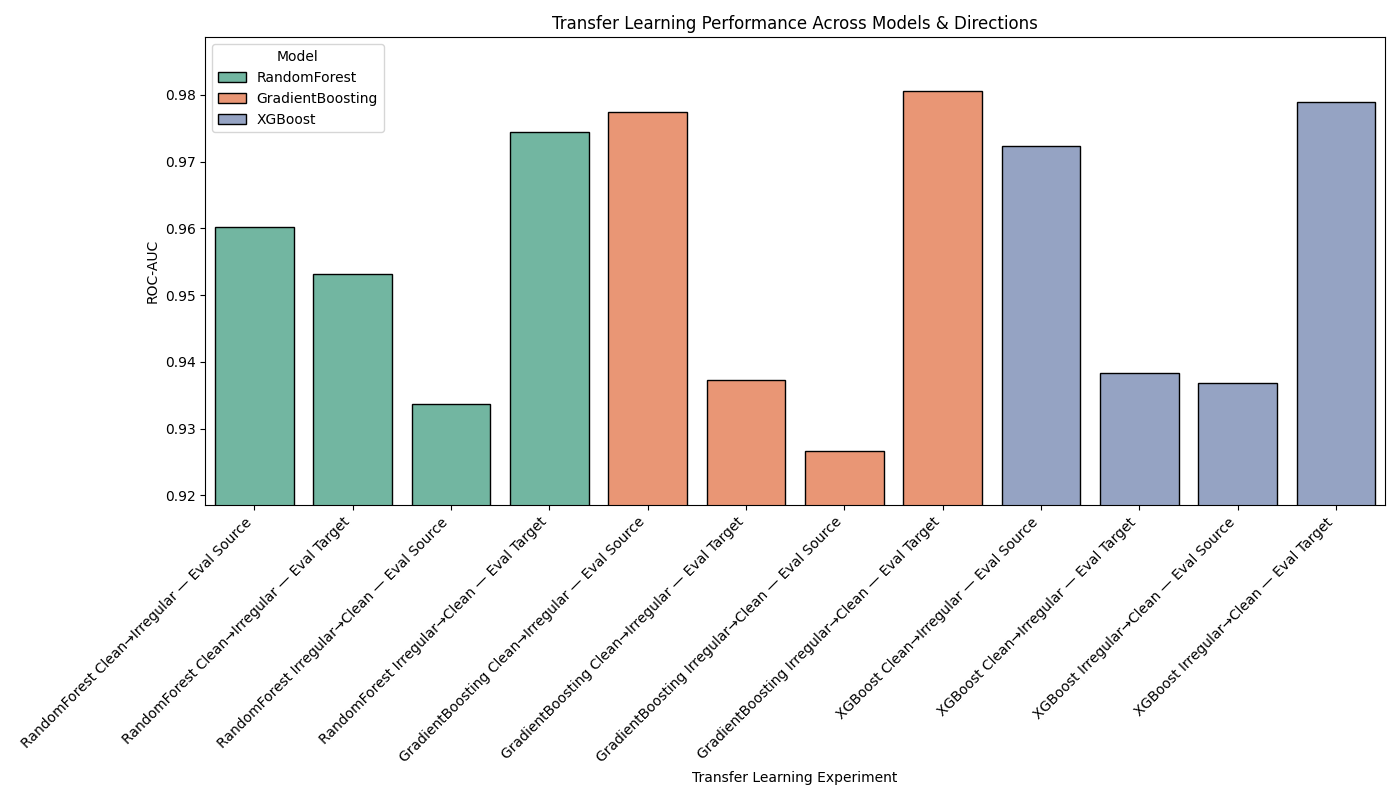
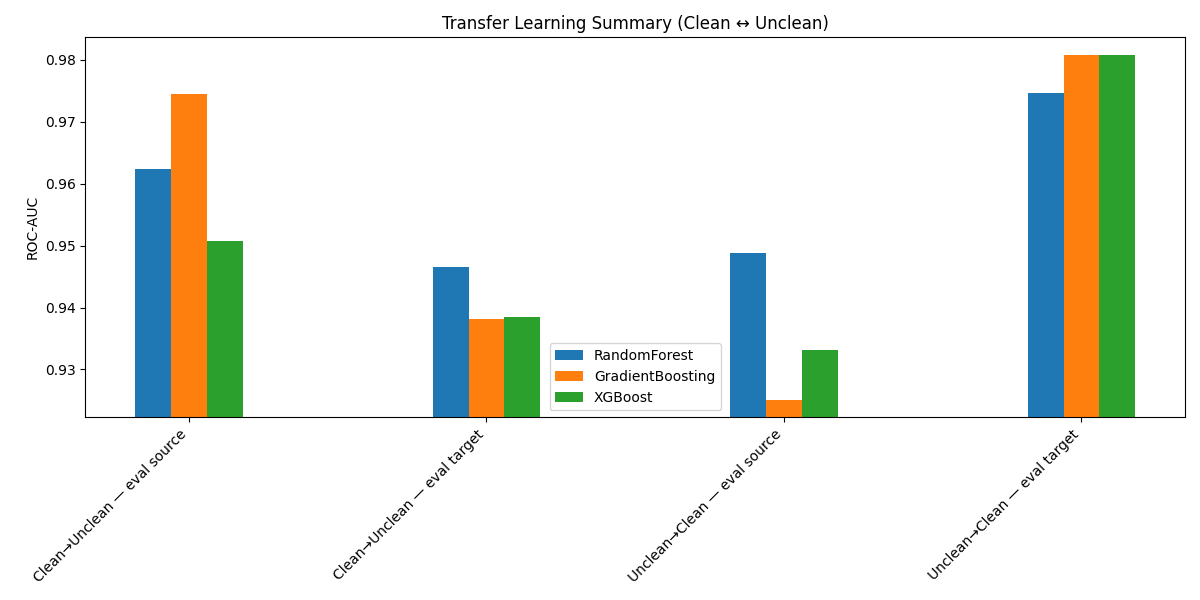
fix(transfer-learning): fixed data leakage
Should fix the data leakage by properly pairing product id's like comparison.py.

diff --git a/src/transfer_learning.py b/src/transfer_learning.py
@@ -1,187 +1,175 @@
 # ==============================================================
 #  transfer_learning.py
-#  Sequential Transfer Learning for Synthetic ↔ Realistic AI4I Data
-#
-#  Uses your existing data loaders + models and performs:
-#     Experiment A: Train Clean → Finetune Irregular
-#     Experiment B: Train Irregular → Finetune Clean
-#
-#  Evaluates on both domains to measure transfer improvements.
+#  Paired Transfer Learning for Clean <-> Unclean AI4I Data
 # ==============================================================
 
 from sklearn.metrics import roc_auc_score
 from sklearn.model_selection import train_test_split
 import pandas as pd
-
-from src.comparison import align_columns
-
 import matplotlib.pyplot as plt
-import seaborn as sns
 
-def plot_transfer_learning_results(df, save_path="results/transfer_learning_plot.png"):
-    """
-    Create a grouped bar chart where:
-        - X-axis: TL Experiment (Clean→Irregular eval source, etc.)
-        - Bar color: Model (RF, GB, XGB)
-        - Y-axis: ROC-AUC (auto-scaled for visibility)
-    """
+from src.comparison import (
+    align_columns,
+    merge_clean_unclean,
+    split_clean_unclean_pairs
+)
 
-    # Prepare DataFrame for seaborn
-    df_plot = df.copy()
 
-    # Give clean readable labels for x-axis
-    df_plot["Experiment Label"] = (
-        df_plot["TL Experiment"]
-        .str.replace("eval source", "Eval Source", regex=False)
-        .str.replace("eval target", "Eval Target", regex=False)
+# --------------------------------------------------------------
+#  Train on one dataset, then fine-tune on another (simple form)
+# --------------------------------------------------------------
+def sequential_train(model, X_pre, y_pre, X_ft, y_ft):
+    # ensure both datasets share identical columns
+    X_pre, X_ft = align_columns(X_pre, X_ft)
+
+    # stage 1 — pretrain
+    model.fit(X_pre, y_pre)
+
+    # stage 2 — fine-tune
+    model.fit(X_ft, y_ft)
+
+    return model
+
+
+# --------------------------------------------------------------
+#  Build leakage-free paired splits
+# --------------------------------------------------------------
+def build_paired_splits(clean_df, unclean_df):
+    merged = merge_clean_unclean(clean_df, unclean_df)
+    X_clean, y_clean, X_unclean, y_unclean = split_clean_unclean_pairs(merged)
+
+    # split by product_id (prevents leakage)
+    ids = merged["product_id"].unique()
+    train_ids, test_ids = train_test_split(ids, test_size=0.2, random_state=42)
+
+    def pick(ids_subset, X, y):
+        mask = merged["product_id"].isin(ids_subset)
+        return X[mask], y[mask]
+
+    clean_train, clean_y_train = pick(train_ids, X_clean, y_clean)
+    clean_test, clean_y_test = pick(test_ids, X_clean, y_clean)
+
+    unclean_train, unclean_y_train = pick(train_ids, X_unclean, y_unclean)
+    unclean_test, unclean_y_test = pick(test_ids, X_unclean, y_unclean)
+
+    return (
+        clean_train, clean_y_train, clean_test, clean_y_test,
+        unclean_train, unclean_y_train, unclean_test, unclean_y_test
     )
 
-    plt.figure(figsize=(14, 8))
 
-    # Create grouped bar chart
-    sns.barplot(
-        data=df_plot,
-        x="Experiment Label",
-        y="ROC_AUC",
-        hue="Model",
-        palette="Set2",
-        edgecolor="black"
+# --------------------------------------------------------------
+#  Run one TL direction (Clean -> Unclean or Unclean -> Clean)
+# --------------------------------------------------------------
+def run_tl_direction(model, direction, clean_df, unclean_df):
+    (
+        clean_train, clean_y_train, clean_test, clean_y_test,
+        unclean_train, unclean_y_train, unclean_test, unclean_y_test
+    ) = build_paired_splits(clean_df, unclean_df)
+
+    if direction == "Clean→Unclean":
+        X_pre, y_pre = clean_train, clean_y_train
+        X_ft, y_ft = unclean_train, unclean_y_train
+
+        X_pre_test, y_pre_test = clean_test, clean_y_test
+        X_ft_test, y_ft_test = unclean_test, unclean_y_test
+
+    else:  # "Unclean→Clean"
+        X_pre, y_pre = unclean_train, unclean_y_train
+        X_ft, y_ft = clean_train, clean_y_train
+
+        X_pre_test, y_pre_test = unclean_test, unclean_y_test
+        X_ft_test, y_ft_test = clean_test, clean_y_test
+
+    # train → finetune
+    model = sequential_train(model, X_pre, y_pre, X_ft, y_ft)
+
+    # align columns for evaluation
+    X_pre_test, X_ft_test = align_columns(X_pre_test, X_ft_test)
+
+    # evaluate on both source and target test sets
+    auc_source = roc_auc_score(y_pre_test, model.predict_proba(X_pre_test)[:, 1])
+    auc_target = roc_auc_score(y_ft_test, model.predict_proba(X_ft_test)[:, 1])
+
+    print(f"\n=== Transfer Learning ({direction}) ===")
+    print(f"Eval Source Dataset: ROC-AUC = {auc_source:.4f}")
+    print(f"Eval Target Dataset: ROC-AUC = {auc_target:.4f}")
+
+    return pd.DataFrame({
+        "Experiment": [
+            f"{direction} — eval source",
+            f"{direction} — eval target"
+        ],
+        "ROC_AUC": [auc_source, auc_target]
+    })
+
+
+def plot_tl_results(df, save_path="results/transfer_learning_plot.png"):
+    plt.figure(figsize=(12, 6))
+
+    experiments = df["Experiment"].unique()
+    models = df["Model"].unique()
+
+    x = range(len(experiments))
+    width = 0.12  # narrow bars so multiple models fit
+
+    for i, model in enumerate(models):
+        subset = df[df["Model"] == model]["ROC_AUC"].tolist()
+        offsets = [p + i * width for p in x]
+        plt.bar(offsets, subset, width, label=model)
+
+    ymin = df["ROC_AUC"].min()
+    ymax = df["ROC_AUC"].max()
+
+    padding = (ymax - ymin) * 0.05 if ymax > ymin else 0.02
+
+    plt.ylim([max(0, ymin - padding), min(1, ymax + padding)])
+
+    plt.xticks(
+        [p + (len(models) - 1) * width / 2 for p in x],
+        experiments,
+        rotation=45,
+        ha="right"
     )
-
-    # Rotate labels for readability
-    plt.xticks(rotation=45, ha="right")
-
-    # Expand y-limits slightly so differences are easier to see
-    ymin = df_plot["ROC_AUC"].min()
-    ymax = df_plot["ROC_AUC"].max()
-    padding = (ymax - ymin) * 0.15
-    plt.ylim([max(0.0, ymin - padding), min(1.0, ymax + padding)])
 
     plt.ylabel("ROC-AUC")
-    plt.xlabel("Transfer Learning Experiment")
-    plt.title("Transfer Learning Performance Across Models & Directions")
-
+    plt.title("Transfer Learning Summary (Clean ↔ Unclean)")
+    plt.legend()
     plt.tight_layout()
     plt.savefig(save_path)
     plt.show()
 
 
 # --------------------------------------------------------------
-#  HELPER — train, then finetune
+#  Top-level TL call from main.py
 # --------------------------------------------------------------
-def sequential_train(model, X_pre, y_pre, X_finetune, y_finetune):
-    """
-    Train on X_pre first, then continue fitting (fine-tuning)
-    on X_finetune.
-    """
-
-    # Ensure both datasets share column alignment
-    X_pre, X_finetune = align_columns(X_pre, X_finetune)
-
-    # STEP 1 — pretrain
-    model.fit(X_pre, y_pre)
-
-    # STEP 2 — fine-tune
-    model.fit(X_finetune, y_finetune)
-
-    return model
-
-
-# --------------------------------------------------------------
-#  Run a full TL experiment (one direction)
-# --------------------------------------------------------------
-def run_tl_direction(model, name, src_df, tgt_df):
-    """
-    src_df → pretraining dataset
-    tgt_df → fine-tuning dataset
-
-    Returns a DataFrame with evaluation results.
-    """
-
-    # Remove product_id from features
-    X_src = src_df.drop(columns=["machine_failure", "product_id"], errors="ignore")
-    y_src = src_df["machine_failure"]
-
-    X_tgt = tgt_df.drop(columns=["machine_failure", "product_id"], errors="ignore")
-    y_tgt = tgt_df["machine_failure"]
-
-    # Same split strategy as your other files
-    X_src_train, X_src_test, y_src_train, y_src_test = train_test_split(
-        X_src, y_src, test_size=0.2, random_state=42
-    )
-    X_tgt_train, X_tgt_test, y_tgt_train, y_tgt_test = train_test_split(
-        X_tgt, y_tgt, test_size=0.2, random_state=42
-    )
-
-    # Sequential TL
-    model = sequential_train(model, X_src_train, y_src_train, X_tgt_train, y_tgt_train)
-
-    # Evaluate on both domains
-    # (always probability scores because ROC-AUC)
-    X_src_test_aligned, X_tgt_test_aligned = align_columns(X_src_test, X_tgt_test)
-
-    auc_src = roc_auc_score(
-        y_src_test,
-        model.predict_proba(X_src_test_aligned)[:, 1]
-    )
-
-    auc_tgt = roc_auc_score(
-        y_tgt_test,
-        model.predict_proba(X_tgt_test_aligned)[:, 1]
-    )
-
-    print(f"\n=== Transfer Learning ({name}) ===")
-    print(f"Evaluation on Source Dataset:  ROC-AUC = {auc_src:.4f}")
-    print(f"Evaluation on Target Dataset:  ROC-AUC = {auc_tgt:.4f}")
-
-    return pd.DataFrame({
-        "TL Experiment": [f"{name} — eval source", f"{name} — eval target"],
-        "ROC_AUC": [auc_src, auc_tgt]
-    })
-
-
-# --------------------------------------------------------------
-#  Top-level function called from main.py
-# --------------------------------------------------------------
-def run_transfer_learning(models, clean_df, irregular_df):
-    """
-    Runs both TL directions for each model:
-
-        1. Clean → Irregular
-        2. Irregular → Clean
-
-    Returns combined results.
-    """
+def run_transfer_learning(models, clean_df, unclean_df):
     all_results = []
 
     for name, model in models.items():
-        print(f"\n============================")
+        print("\n============================")
         print(f" Transfer Learning: {name}")
-        print(f"============================\n")
+        print("============================")
 
-        # A: Synthetic → Realistic
-        tl_clean_to_irregular = run_tl_direction(
-            model, f"{name} Clean→Irregular",
-            clean_df, irregular_df
+        results_clean_to_unclean = run_tl_direction(
+            model, "Clean→Unclean", clean_df, unclean_df
         )
-        tl_clean_to_irregular["Model"] = name
+        results_clean_to_unclean["Model"] = name
 
-        # B: Realistic → Synthetic
-        tl_irregular_to_clean = run_tl_direction(
-            model, f"{name} Irregular→Clean",
-            irregular_df, clean_df
+        results_unclean_to_clean = run_tl_direction(
+            model, "Unclean→Clean", clean_df, unclean_df
         )
-        tl_irregular_to_clean["Model"] = name
+        results_unclean_to_clean["Model"] = name
 
-        all_results.append(tl_clean_to_irregular)
-        all_results.append(tl_irregular_to_clean)
+        all_results.append(results_clean_to_unclean)
+        all_results.append(results_unclean_to_clean)
 
     final = pd.concat(all_results, ignore_index=True)
     final.to_csv("results/transfer_learning_metrics.csv", index=False)
+
     print("\n=== Transfer Learning Summary ===")
     print(final)
 
-    # Create TL summary plot
-    plot_transfer_learning_results(final)
+    plot_tl_results(final)
 
     return final
